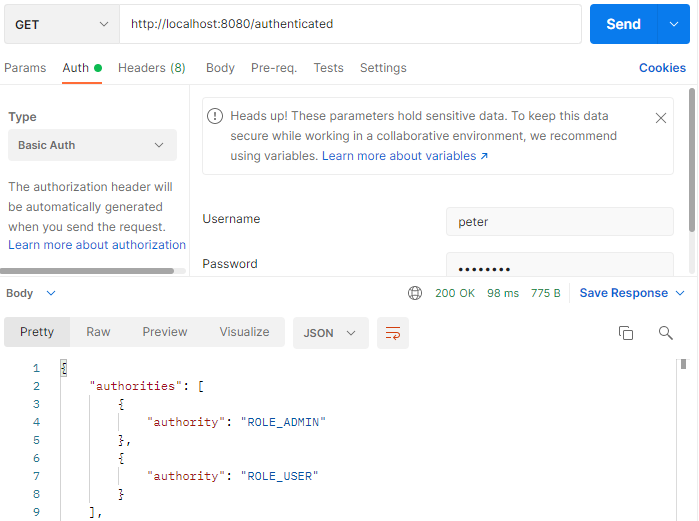
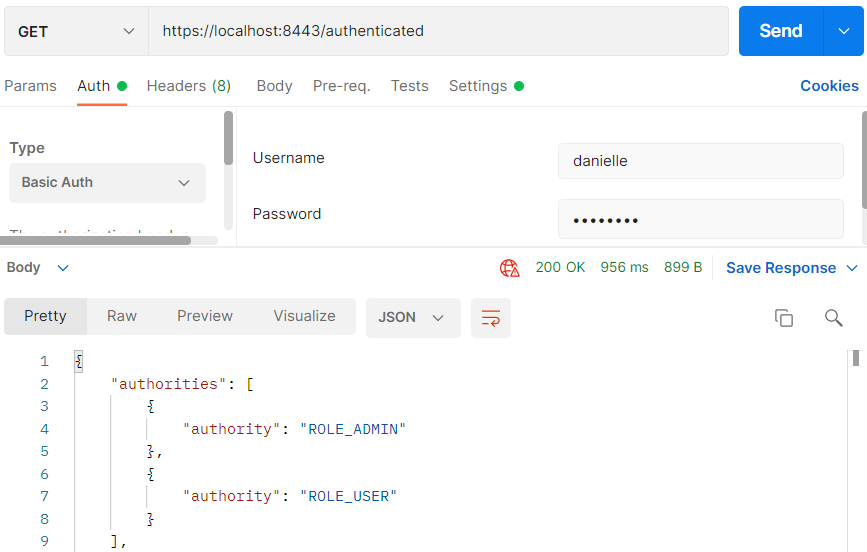
updated security pt5

diff --git a/security_pt5.md b/security_pt5.md
@@ -2,15 +2,15 @@
 
 We willen geen vaste tabel zoals `my_users` en `my_authorities`.
 
-We maken een nieuw IntelliJ project in de Initializr.
+### Controller
 
-Maak een nieuwe package aan genaamd `controller` en hierin de volgende bestanden: `AdminController.java`
+In de map `controller` hebben we 4 bestanden: `AdminController.java`
 , `AuthenticatedController.java`, `BaseController.java` en `CustomersController.java`.
 
 _AdminController.java_
 
 ```java
-package nl.danielle.demo_third_security.controller;
+package nl.danielle.security_demo.controller;
 
 import org.springframework.http.HttpStatus;
 import org.springframework.http.ResponseEntity;
@@ -23,50 +23,8 @@ import org.springframework.web.bind.annotation.RestController;
 public class AdminController {
 
     @GetMapping(value = "")
-    public ResponseEntity<Object> getMessage() {
-        return new ResponseEntity<>("SECURED REST endpoint: /admin", HttpStatus.OK);
-    }
-}
-```
-
-_AuthenticatedController.java_
-
-```java
-package nl.danielle.demo_third_security.controller;
-
-import org.springframework.http.ResponseEntity;
-import org.springframework.security.core.Authentication;
-import org.springframework.web.bind.annotation.GetMapping;
-import org.springframework.web.bind.annotation.RequestMapping;
-import org.springframework.web.bind.annotation.RestController;
-
-import java.security.Principal;
-
-@RestController
-@RequestMapping(value = "/authenticated")
-public class AuthenticatedController {
-
-    @GetMapping(value = "")
-    public ResponseEntity<Object> authenticated(Authentication authentication, Principal principal) {
-        return ResponseEntity.ok().body(principal);
-    }
-}
-```
-
-_BaseController.java_
-
-```java
-package nl.danielle.demo_third_security.controller;
-
-import org.springframework.web.bind.annotation.GetMapping;
-import org.springframework.web.bind.annotation.RestController;
-
-@RestController
-public class BaseController {
-
-    @GetMapping(value = "/")
-    public String hello() {
-        return "Hello World";
+    public ResponseEntity<Object> getAdmin() {
+        return new ResponseEntity<>("/admin endpoint available for ADMIN only!", HttpStatus.OK);
     }
 }
 ```
@@ -74,7 +32,7 @@ public class BaseController {
 _CustomersController.java_
 
 ```java
-package nl.danielle.demo_third_security.controller;
+package nl.danielle.security_demo.controller;
 
 import org.springframework.http.HttpStatus;
 import org.springframework.http.ResponseEntity;
@@ -93,10 +51,12 @@ public class CustomersController {
 }
 ```
 
-Maak een nieuwe package aan genaamd `config` en hierin het volgende bestand: `SpringSecurityConfig.java`.
+### Config
+
+In de map `config` staat het bestand `SpringSecurityConfig.java`.
 
 ```java
-package nl.danielle.demo_third_security.config;
+package nl.danielle.security_demo.config;
 
 import org.springframework.beans.factory.annotation.Autowired;
 import org.springframework.context.annotation.Bean;
@@ -152,14 +112,16 @@ public class SpringSecurityConfig extends WebSecurityConfigurerAdapter {
 We hebben de query's (my_users en my_authorities) eruit gelaten en verwijzen nu naar de datasource met de
 jdbc `auth.jdbcAuthentication().dataSource(dataSource);`
 
-Omdat we nu een tabel maken die `'User` en `Authority` heten, gaat `jdbc` de query's volledig automatisch doen.
+Omdat we een tabel maken die `'User` en `Authority` heten, gaat `jdbc` de query's volledig automatisch doen.
 
-Maak een nieuwe package aan genaamd `model` en hierin de volgende bestanden: `Authority.java` en `User.java`.
+### Model
+
+Maak een nieuwe package aan genaamd `model` en zet hierin de volgende bestanden: `Authority.java` en `User.java`.
 
 _Authority.java_
 
 ```java
-package nl.danielle.demo_third_security.model;
+package nl.danielle.security_demo.model;
 
 import javax.persistence.*;
 import java.io.Serializable;
@@ -197,7 +159,7 @@ public class Authority implements Serializable {
 _User.java_
 
 ```java
-package nl.danielle.demo_third_security.model;
+package nl.danielle.security_demo.model;
 
 import javax.persistence.*;
 
@@ -242,23 +204,31 @@ public class User {
 
 ```
 
+### Resources
+
 In de `resources` map heb je de volgende bestanden met bijbehorende code: `application.properties` en `data.sql`. Schema
 hebben we niet meer nodig.
 
 _application.properties_
 
+    server.ssl.key-store=classpath:certificate.jks
+    server.ssl.key-store-type=pkcs12
+    server.ssl.key-store-password=password
+    server.ssl.key-password=password
+    server.ssl.key-alias=certificate
+    server.port=8443
+    
     # datasource Postgres
     spring.jpa.database=postgresql
     spring.datasource.platform=postgres
-    spring.datasource.url=jdbc:postgresql://localhost:5432/demo_third_security
+    spring.datasource.url=jdbc:postgresql://localhost:5432/security_demo
     spring.datasource.username=postgres
     spring.datasource.password=postgres123
     spring.datasource.driver-class-name=org.postgresql.Driver
     spring.datasource.initialization-mode=always
     spring.jpa.generate-ddl=true
-    spring.jpa.hibernate.ddl-auto=create-drop
+    spring.jpa.hibernate.ddl-auto=create
     spring.jpa.properties.hibernate.jdbc.lob.non_contextual_creation=true
-    
     spring.jpa.properties.hibernate.dialect= org.hibernate.dialect.PostgreSQLDialect
 
 _data.sql_
@@ -269,7 +239,7 @@ VALUES ('user', '$2a$10$wPHxwfsfTnOJAdgYcerBt.utdAvC24B/DWfuXfzKBSDHO0etB1ica', 
 INSERT INTO users (username, password, enabled)
 VALUES ('admin', '$2a$10$wPHxwfsfTnOJAdgYcerBt.utdAvC24B/DWfuXfzKBSDHO0etB1ica', TRUE);
 INSERT INTO users (username, password, enabled)
-VALUES ('peter', '$2a$10$wPHxwfsfTnOJAdgYcerBt.utdAvC24B/DWfuXfzKBSDHO0etB1ica', TRUE);
+VALUES ('danielle', '$2a$10$wPHxwfsfTnOJAdgYcerBt.utdAvC24B/DWfuXfzKBSDHO0etB1ica', TRUE);
 
 INSERT INTO authorities (username, authority)
 VALUES ('user', 'ROLE_USER');
@@ -278,13 +248,14 @@ VALUES ('admin', 'ROLE_USER');
 INSERT INTO authorities (username, authority)
 VALUES ('admin', 'ROLE_ADMIN');
 INSERT INTO authorities (username, authority)
-VALUES ('peter', 'ROLE_USER');
+VALUES ('danielle', 'ROLE_USER');
 INSERT INTO authorities (username, authority)
-VALUES ('peter', 'ROLE_ADMIN');
+VALUES ('danielle', 'ROLE_ADMIN');
 ```
 
-Het wachtwoord wat je ziet staan, is een encrypted wachtwoord. We hebben dit in code in de data.sql staan maar het is
-een encryptie. Spring Boot kent allerlei encrypties.
+### Encrypted wachtwoord
+
+Het wachtwoord wat je ziet staan in `data.sql` is een encrypted wachtwoord. 
 
 In `SpringSecurityConfig.java` zie je de volgende code staan.
 
@@ -300,7 +271,7 @@ Hoe weet je dat de code `$2a$10$wPHxwfsfTnOJAdgYcerBt.utdAvC24B/DWfuXfzKBSDHO0et
 hoort? Daar zijn websites voor: https://www.browserling.com/tools/bcrypt. Wanneer je het wachtwoord `password` intikt
 krijg je `$2a$10$in7p/8vt5wmfqmo8xD5QHumpRPSuB2tEQ4oeWX5bL.cGi5GOqr7XW`.
 
-Run de applicatie.
+### Run de applicatie
 
 In postgreSQL zie je de tabellen `authorities` en `users` staan.
 
@@ -308,12 +279,12 @@ In postgreSQL zie je de tabellen `authorities` en `users` staan.
 
 ![img105.png](images/img105.png)
 
-In Postman ga je naar url `http://localhost:8080/authenticated` en logt in als `peter`, `admin` of `user`.
+In Postman ga je naar url `https://localhost:8443/authenticated` en logt in als `danielle`, `admin` of `user`.
 
 ![img106.png](images/img106.png)
 
-De url's `http://localhost:8080/`, `http://localhost:8080/customers` en `http://localhost:8080/admin` kun je testen met
-de rollen `peter`, `admin` of `user` met wachtwoord `password`. Dit zijn alle endpoints die je in de `controller`heb
+De url's `https://localhost:8443/info`, `https://localhost:8443/customers` en `https://localhost:8443/admin` kun je testen met
+de rollen `danielle`, `admin` of `user` met wachtwoord `password`. Dit zijn alle endpoints die je in de `controller`heb
 gedefinieerd.
 
 ### GitHub
